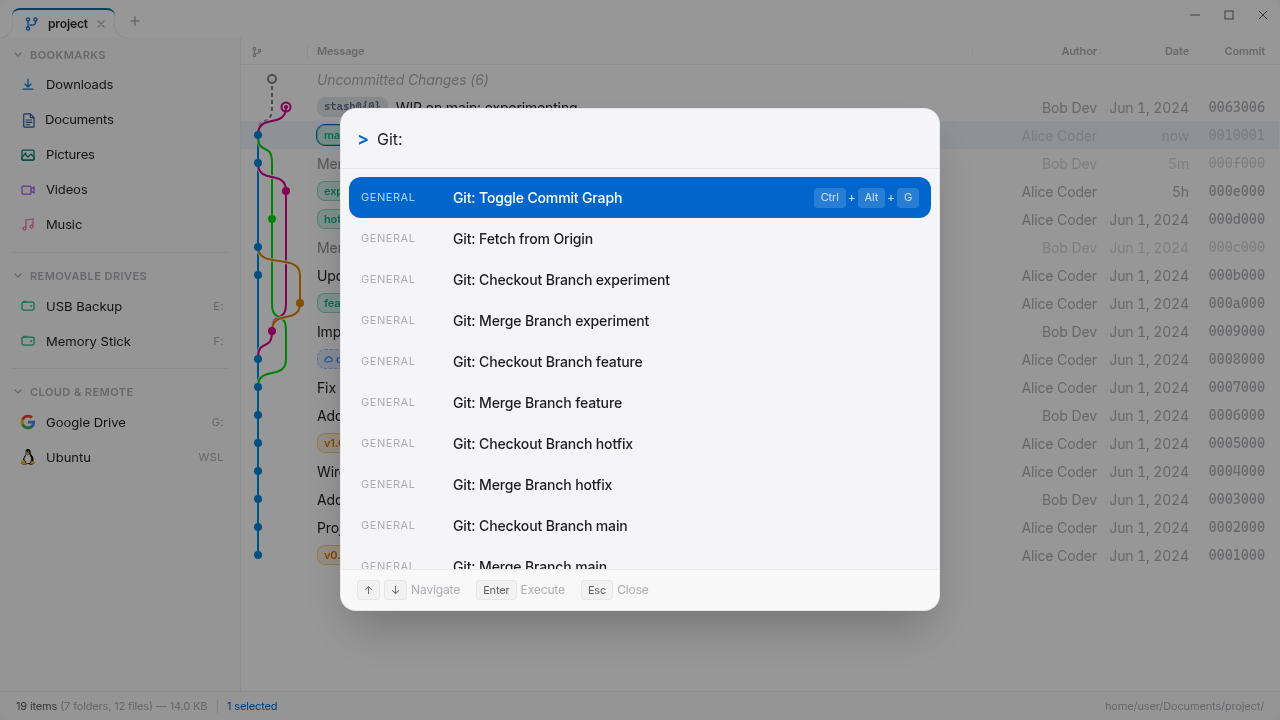
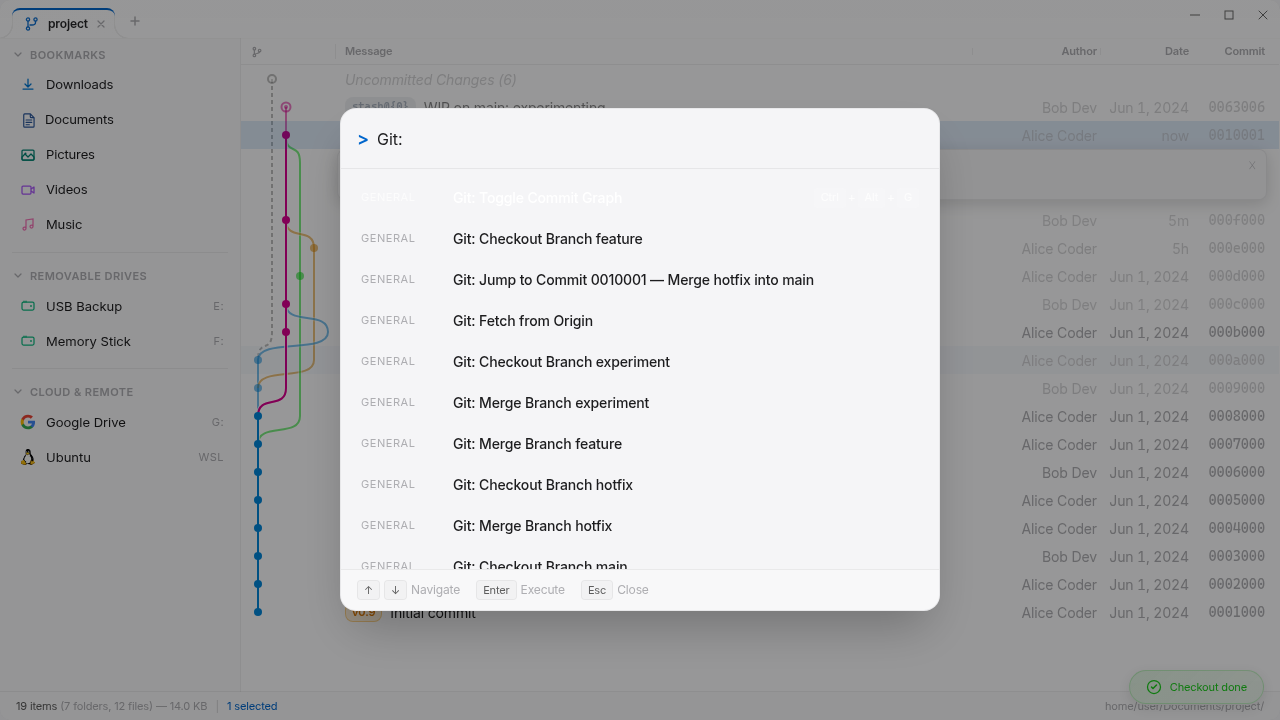
green: capture palette acceptance evidence

diff --git a/e2e/git-command-palette.spec.ts b/e2e/git-command-palette.spec.ts
@@ -24,9 +24,22 @@ test("fuzzy palette exposes Git actions and branch checkout targets", async ({ p
   await expect(palette.getByText(/Git: Rebase onto 0010001/)).toBeVisible();
   await expect(palette.getByText("Git: Apply Stash stash@{0}", { exact: true })).toBeVisible();
   await expect(palette.getByText("Git: Pop Stash stash@{0}", { exact: true })).toBeVisible();
-  await page.screenshot({ path: "evidence/ac-4-git-command-palette.png" });
+  await page.screenshot({ path: "evidence/ac-1-git-actions.png" });
 
   await page.locator("input:focus").fill("Checkout Branch feature");
+  await page.screenshot({ path: "evidence/ac-2-branch-checkout.png" });
   await page.keyboard.press("Enter");
   await expect(page.locator(".commit-row .ref-branch.ref-active")).toHaveText("feature");
+
+  await page.keyboard.press("Control+Shift+p");
+  await page.locator("input:focus").fill("0010001");
+  const jump = palette.getByText("Git: Jump to Commit 0010001 — Merge hotfix into main", { exact: true });
+  await expect(jump).toBeVisible();
+  await page.screenshot({ path: "evidence/ac-3-commit-jump.png" });
+  await jump.click();
+  await expect(page.locator('.commit-row.selected[data-oid="0010001"]')).toBeVisible();
+
+  await page.keyboard.press("Control+Shift+p");
+  await page.locator("input:focus").fill("Git:");
+  await page.screenshot({ path: "evidence/ac-4-git-command-palette.png" });
 });
